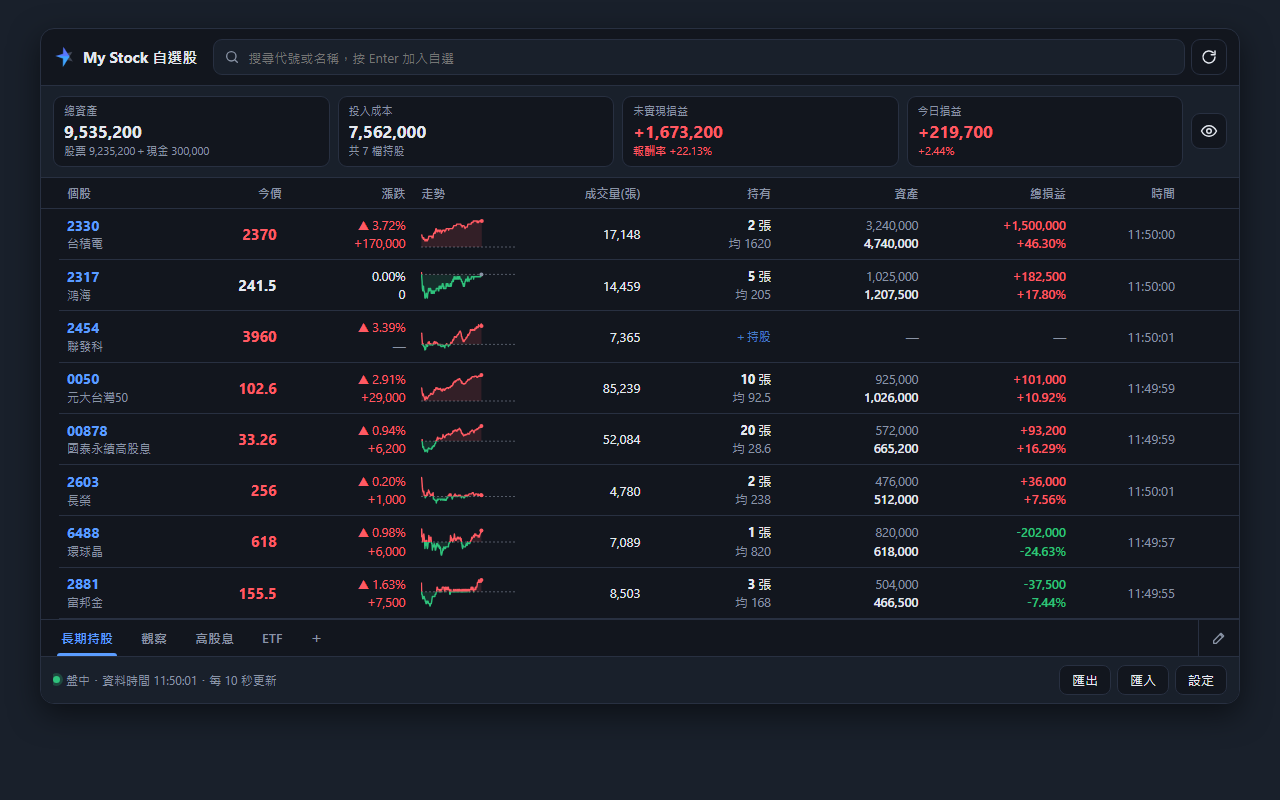
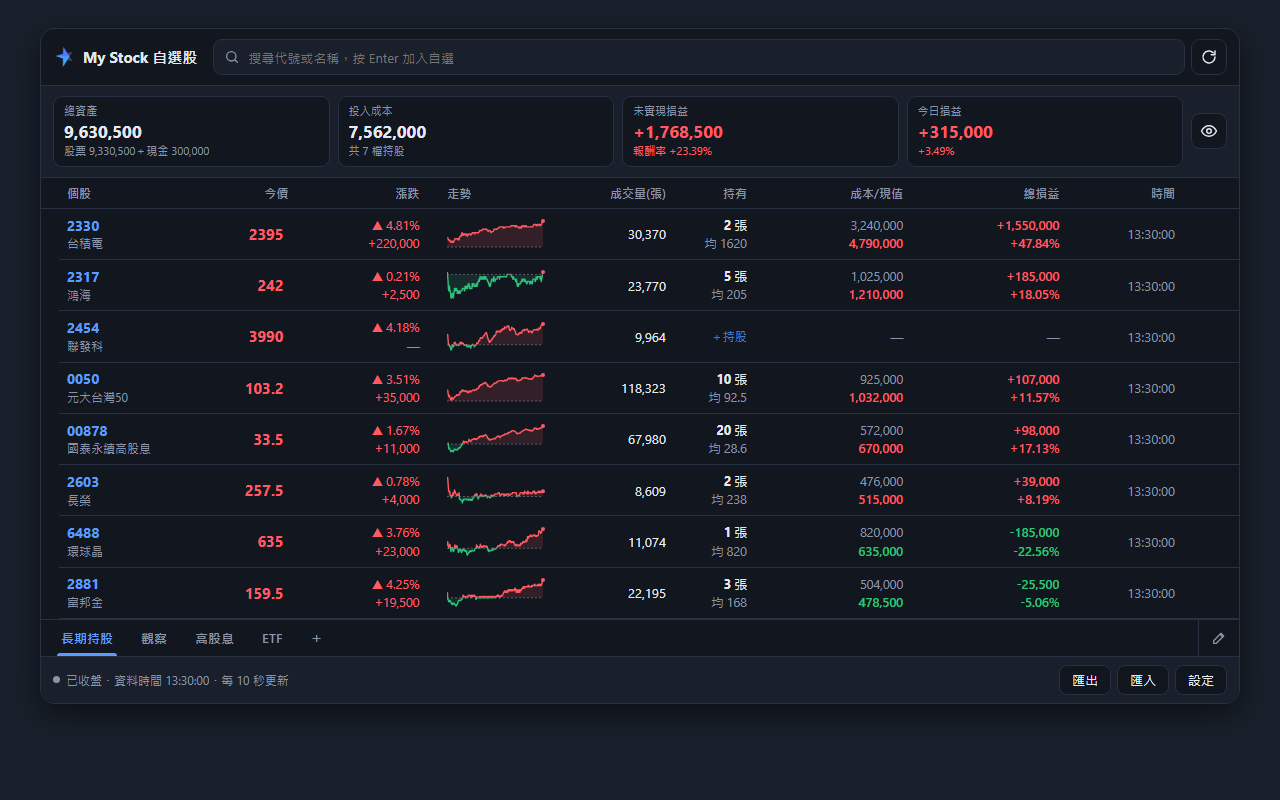
1.2.2：版本號與截圖更新
- manifest 版本改為 1.2.2，商店上架資料改指 my-stock-1.2.2.zip
- 重拍商店截圖與 README 說明圖，表格改為「成本/現值」新欄位與新欄距

diff --git a/store/listing.md b/store/listing.md
@@ -6,7 +6,7 @@
 
 | 用途 | 檔案 |
 | --- | --- |
-| 上傳的套件 | `dist/my-stock-1.2.1.zip` |
+| 上傳的套件 | `dist/my-stock-1.2.2.zip` |
 | 商店圖示 128×128 | `icons/icon128.png`（後台要求另外上傳時用這張） |
 | 螢幕截圖 1280×800 | `store/screenshot-1-popup.png`、`store/screenshot-2-dark.png` |
 | 小型宣傳圖塊 440×280 | `store/promo-tile-440x280.png` |
@@ -122,10 +122,10 @@ https://sites.google.com/view/mystock-privacy
 ## 5. 送出前檢查
 
 - [ ] 已註冊開發人員帳號（一次性 5 美元，帳號需開啟兩步驟驗證）
-- [ ] 上傳 `dist/my-stock-1.2.1.zip`
+- [ ] 上傳 `dist/my-stock-1.2.2.zip`
 - [ ] 填好商店資訊、上傳 2 張截圖與宣傳圖塊
 - [ ] 隱私權政策已放上公開網址，聯絡 Email 已填入
 - [ ] 隱私權實務各欄位已填
 - [ ] 送審（通常需要幾天）
 
-**之後更新版本**：修改程式後，先提高 `manifest.json` 的 `version`（例如 1.2.1 → 1.2.2），重新打包上傳，再送審。
+**之後更新版本**：修改程式後，先提高 `manifest.json` 的 `version`（例如 1.2.2 → 1.2.3），重新打包上傳，再送審。
